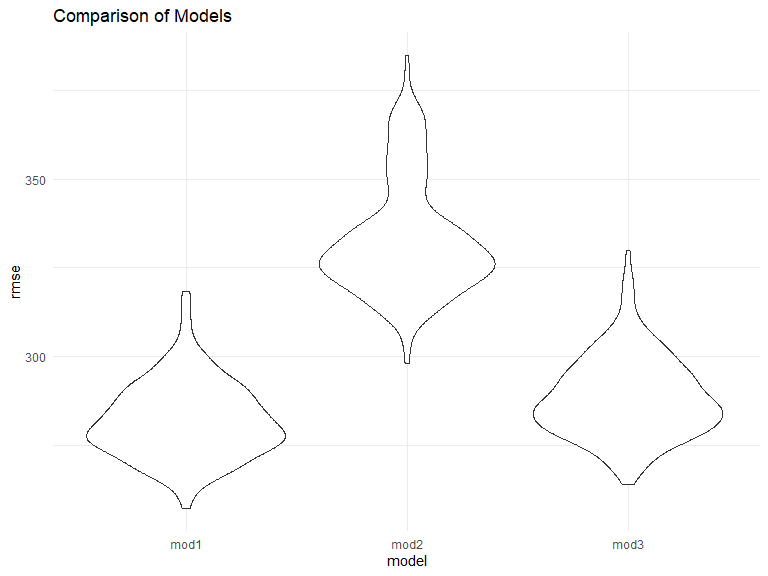
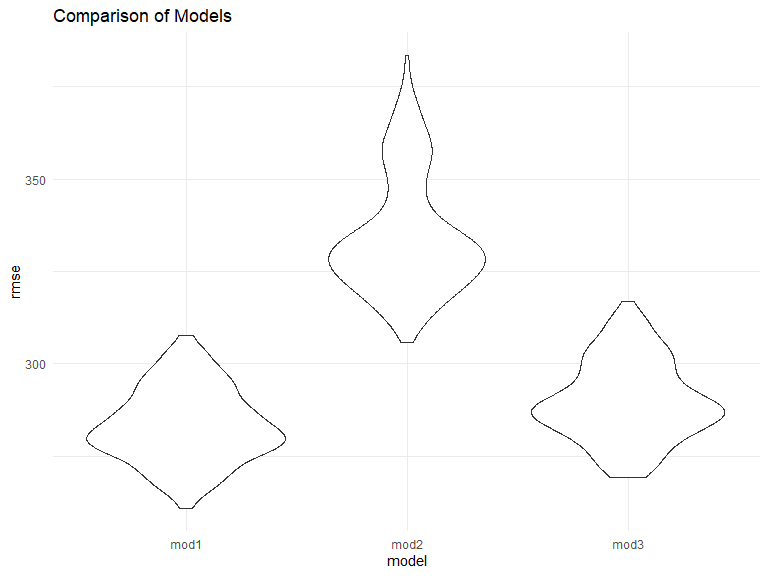
Final commit

diff --git a/p8105_hw6_wo2179.md b/p8105_hw6_wo2179.md
@@ -376,11 +376,11 @@ bootstr =
       modelr::bootstrap(n = 5000) %>% 
         mutate(
               models = map(strap, ~ lm(tmax ~ tmin, data = .x)),
-              r_hat = map(models, broom::glance),
+              glance = map(models, broom::glance),
               results = map(models, broom::tidy)) %>% 
   
-  select(results, r_hat) %>% 
-    unnest(results, r_hat) %>%
+  select(results, glance) %>% 
+    unnest(results, glance) %>%
       mutate(term = str_replace(term,"\\(Intercept\\)","Intercept"))
 ```
 
@@ -389,13 +389,13 @@ obtaining estimates, tidying and cleaning
 ``` r
 est =
   bootstr %>%
-    select(term, estimate, adj.r.squared) %>%
-      pivot_wider(
+      select(term, estimate, r.squared) %>%
+        pivot_wider(
                   names_from = "term",
                   values_from = "estimate"
                   ) %>%
   janitor::clean_names() %>%
-    rename(rhat_sq = adj_r_squared) %>%
+    rename(rhat_sq = r_squared) %>%
       mutate(
             log_est = log(intercept * tmin)
               ) %>%
@@ -407,16 +407,16 @@ est
     ## # A tibble: 5,000 x 2
     ##    rhat_sq log_est
     ##      <dbl>   <dbl>
-    ##  1   0.910    2.03
-    ##  2   0.913    2.03
-    ##  3   0.904    2.04
-    ##  4   0.926    2.01
-    ##  5   0.913    2.01
-    ##  6   0.926    2.01
-    ##  7   0.900    2.01
-    ##  8   0.890    2.04
-    ##  9   0.904    2.02
-    ## 10   0.900    2.05
+    ##  1   0.899    2.04
+    ##  2   0.913    2.00
+    ##  3   0.931    1.98
+    ##  4   0.917    1.97
+    ##  5   0.915    2.01
+    ##  6   0.917    2.01
+    ##  7   0.917    2.00
+    ##  8   0.911    1.97
+    ##  9   0.908    2.02
+    ## 10   0.905    2.00
     ## # ... with 4,990 more rows
 
 visualization of distribution
@@ -456,8 +456,8 @@ est %>%
     ## # A tibble: 2 x 5
     ##   estimates ci_lower ci_upper  mean  st_dev
     ##   <chr>        <dbl>    <dbl> <dbl>   <dbl>
-    ## 1 log_est      1.97     2.06  2.01  0.0238 
-    ## 2 rhat_sq      0.893    0.927 0.911 0.00858
+    ## 1 log_est      1.96     2.06  2.01  0.0241 
+    ## 2 rhat_sq      0.894    0.927 0.911 0.00852
 
 We can expect the true pop parameters of these estimates to fall within
 these intervals.
